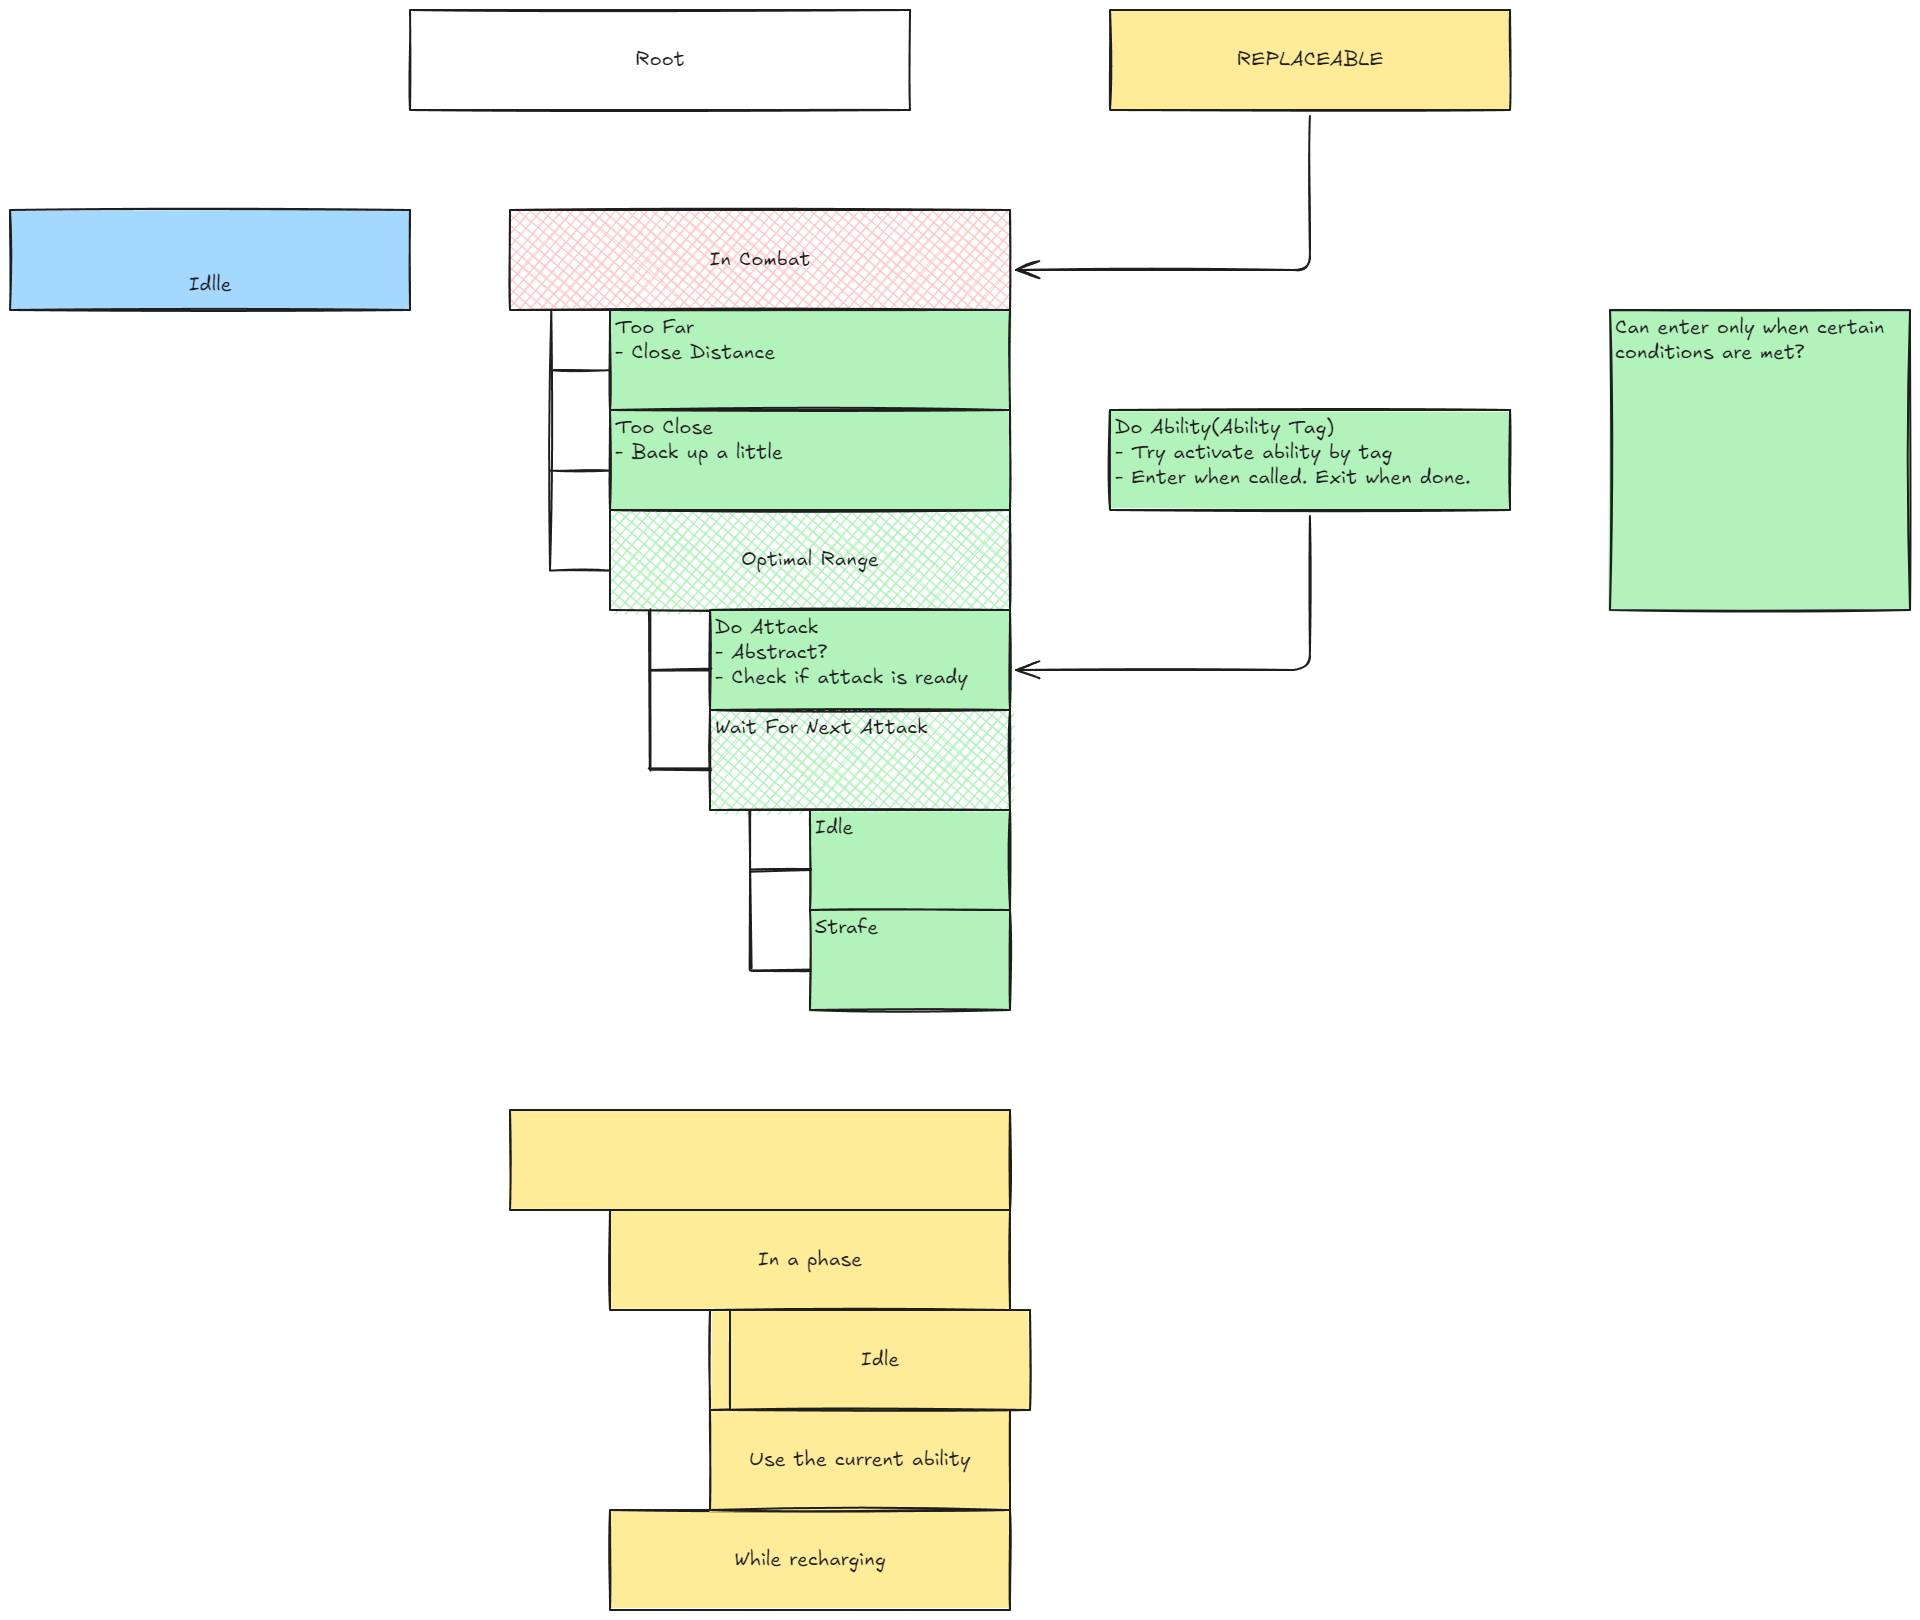
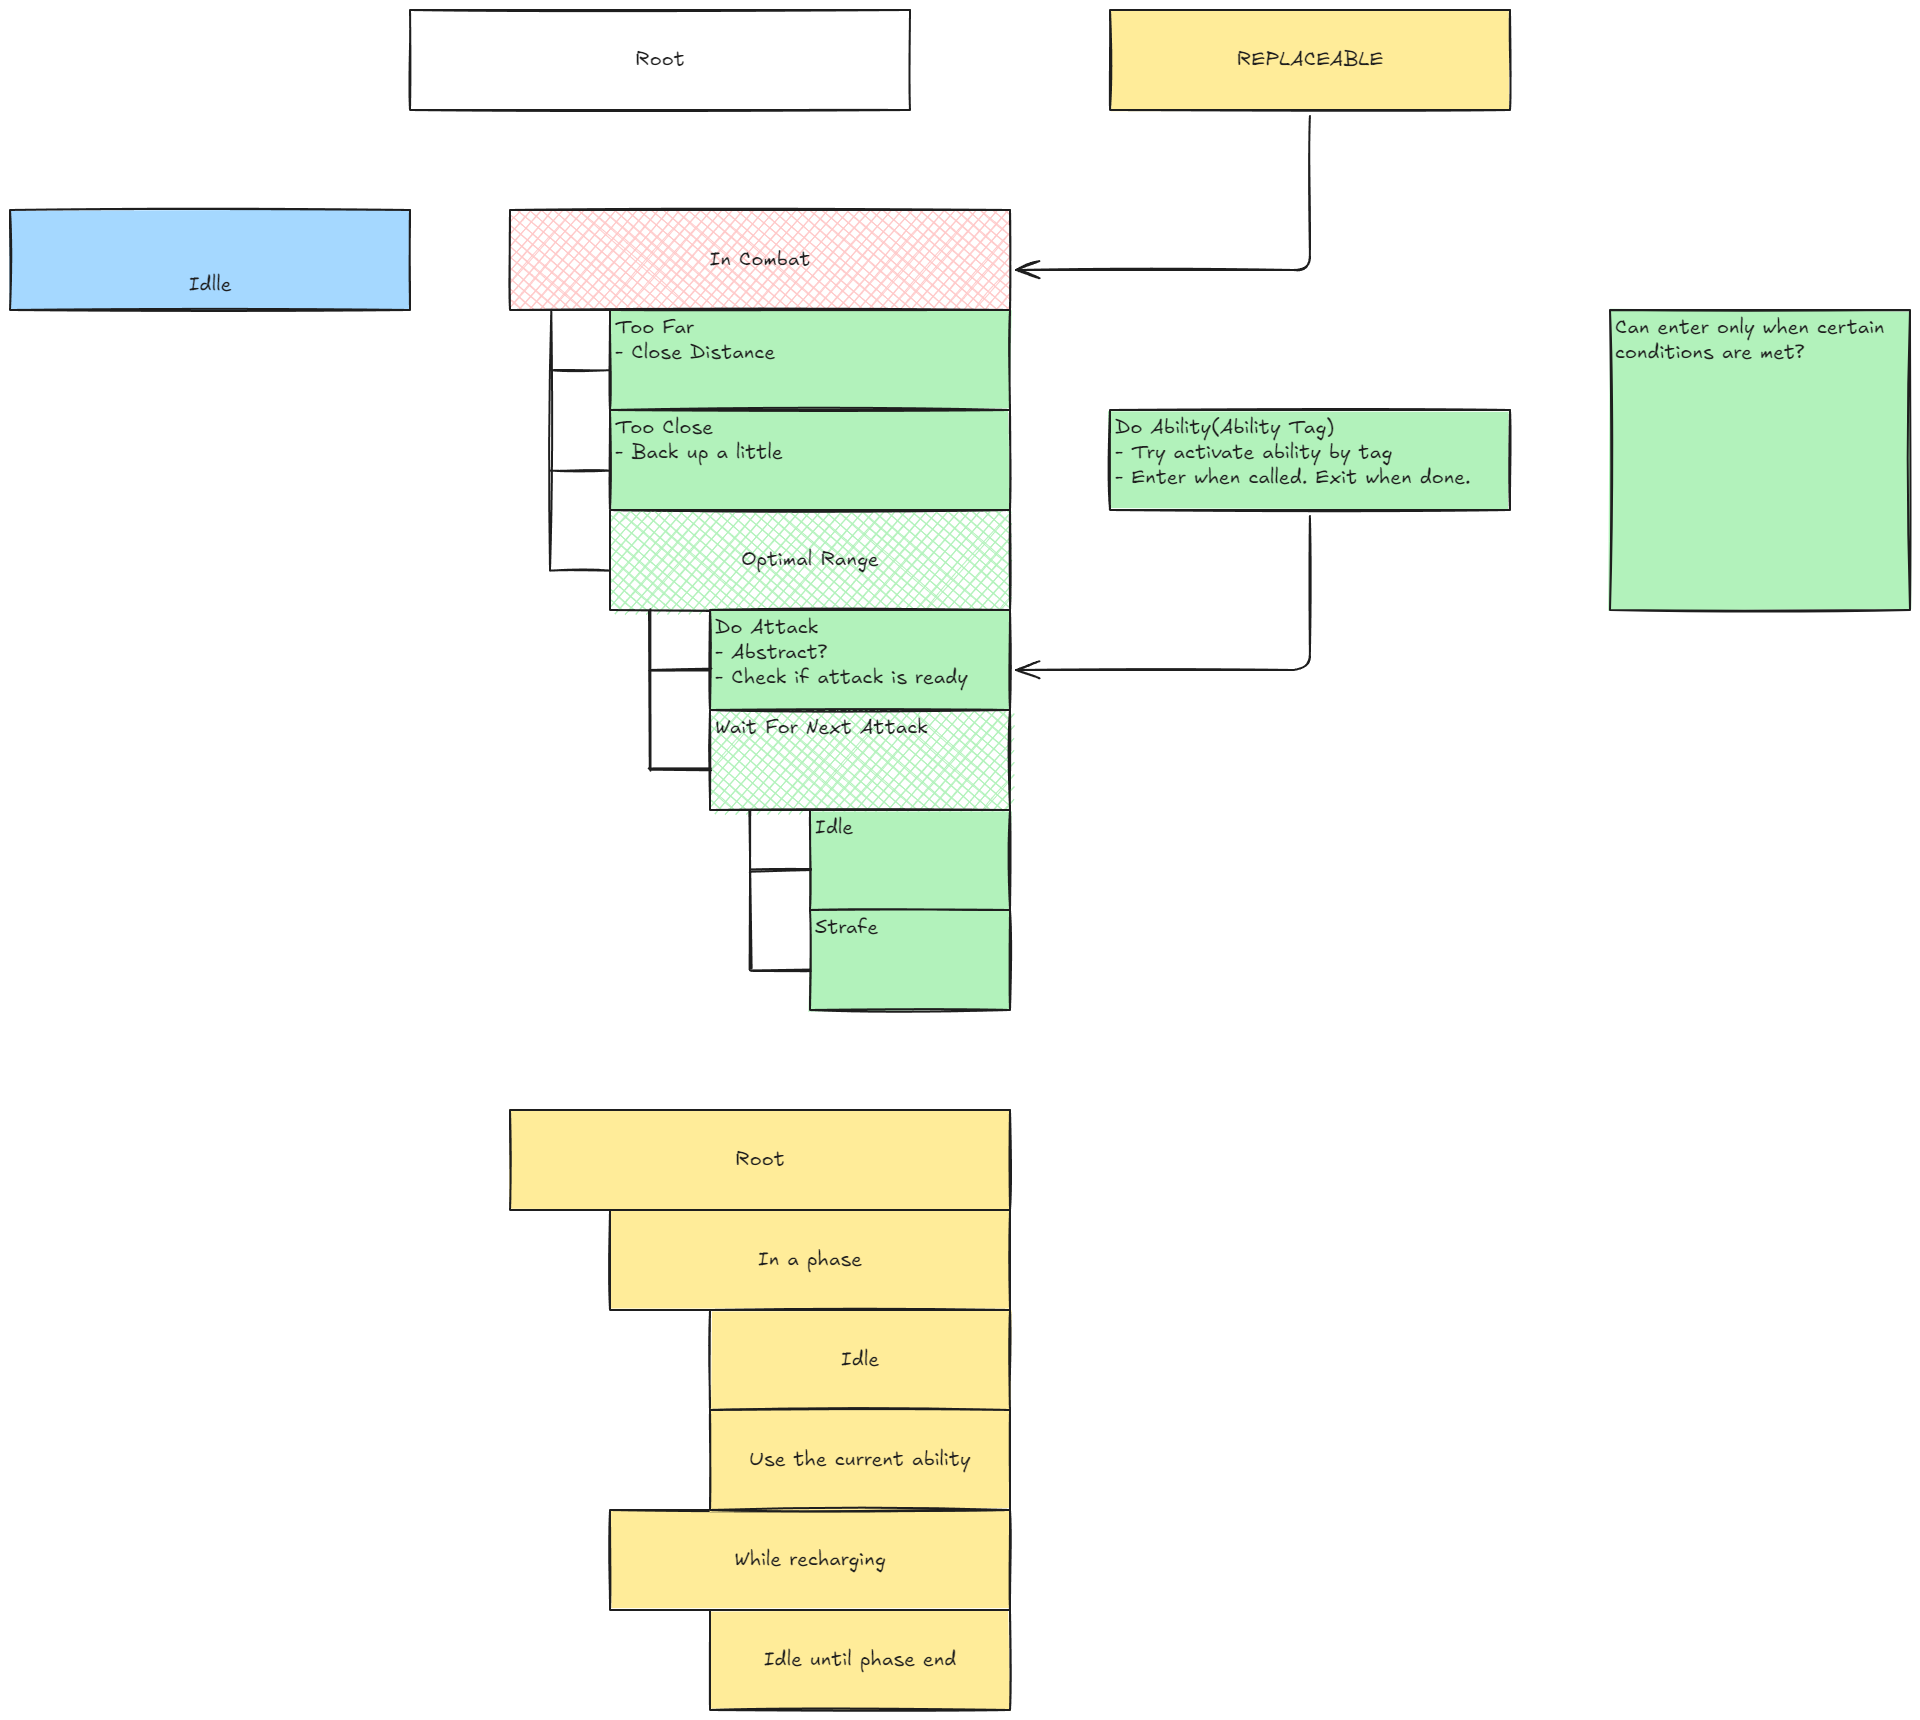
vault backup: 2026-06-07 19:47:06

diff --git a/Projects/Summer Project/Mechanics/AI Rework Graph.md b/Projects/Summer Project/Mechanics/AI Rework Graph.md
@@ -50,10 +50,14 @@ Idle ^5XcTp2Av
 
 Use the current ability ^KLQzcGW9
 
-Idle ^l0uTYGCf
+Idle until phase end ^l0uTYGCf
+
+Root ^aqkHrR7P
 
 %%
+
 ## Drawing
+
 ```compressed-json
[1 lines of base64/hex data omitted]
 
@@ -159,32 +163,37 @@ q1VX8ZWlVaz6Fp0S4WDjB1g3VtlP6WjoOjXR0gD0eciRZZl/pl026Y9NemfTzrNeUsoGntcohDzVgy0a
 
[1 lines of base64/hex data omitted]
 
[2 lines of base64/hex data omitted]
 
[2 lines of base64/hex data omitted]
 
[2 lines of base64/hex data omitted]
 
[2 lines of base64/hex data omitted]
 
[2 lines of base64/hex data omitted]
 
[2 lines of base64/hex data omitted]
 
[2 lines of base64/hex data omitted]
 
[2 lines of base64/hex data omitted]
 
[2 lines of base64/hex data omitted]
 
[2 lines of base64/hex data omitted]
 
[2 lines of base64/hex data omitted]
 
[2 lines of base64/hex data omitted]
 
[2 lines of base64/hex data omitted]
 
[2 lines of base64/hex data omitted]
+
[1 lines of base64/hex data omitted]
+
+AgAA
 ```
+
 %%
